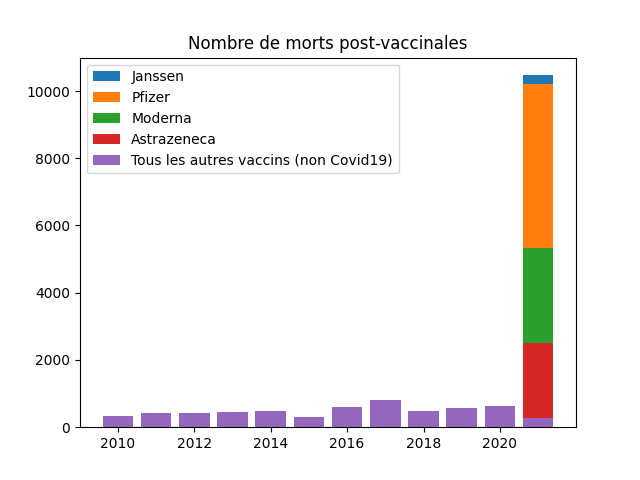
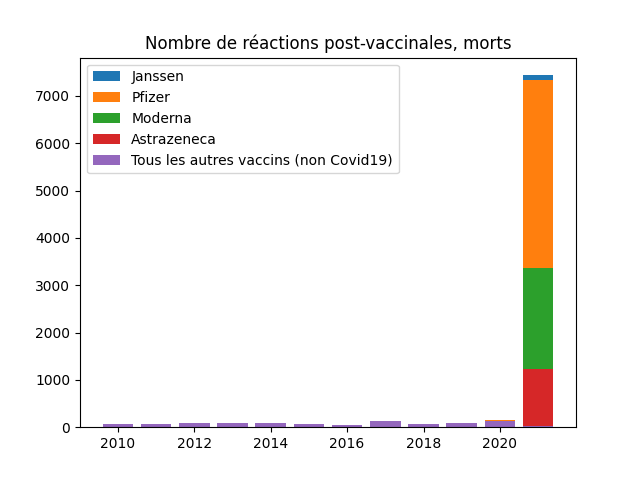
Add 65 ans et plus

diff --git a/run.py b/run.py
@@ -26,8 +26,8 @@ def main():
 
 @main.command("all")
 def cmd_all():
-    download_data()
-    import_data()
+    #download_data()
+    #import_data()
     plot_reactions_by_year_c19()
     plot_reactions_by_year_c19(severe=True)
     plot_reactions_by_year_c19(death=True)
@@ -299,23 +299,25 @@ def db_bulk_insert(conn, table_name, values):
 @main.command("plot_reactions_by_year_c19")
 @click.option("--severe", is_flag=True)
 @click.option("--death", is_flag=True)
-def cmd_plot_reactions_by_year_c19(severe, death):
-    plot_reactions_by_year_c19(severe=severe, death=death)
+@click.option("--aged-65-and-more", is_flag=True)
+def cmd_plot_reactions_by_year_c19(severe, death, aged_65_and_more):
+    plot_reactions_by_year_c19(severe=severe, death=death, aged_65_and_more=aged_65_and_more)
 
-def plot_reactions_by_year_c19(severe=False, death=False):
+def plot_reactions_by_year_c19(severe=False, death=False, aged_65_and_more=False):
     plt.clf()
     title = "Nombre de réactions post-vaccinales"
-    if severe:
-        title = "Nombre de réactions sévères post-vaccinales"
-    if death:
-        title = "Nombre de morts post-vaccinales"
+    if severe: title += ", sévères"
+    if death: title += ", morts"
+    if aged_65_and_more: title += ", 65 ans et +"
     plt.title(title)
     with db_connect() as conn:
         req = 'SELECT subst, year, is_c19_vax, COUNT(*) FROM reports '
-        if severe:
-            req += f' WHERE severe=1'
-        if death:
-            req += f' WHERE death=1'
+        wheres = []
+        if severe: wheres.append('severe=1')
+        if death: wheres.append('death=1')
+        if death: wheres.append('age_group IN ("65-85 Years", "More than 85 Years")')
+        if wheres:
+            req += " WHERE " + " AND ".join(wheres)
         req += ' GROUP BY subst, year, is_c19_vax'
         rows = conn.cursor().execute(req)
         def _get_label(subst, is_c19_vax):
@@ -334,12 +336,11 @@ def plot_reactions_by_year_c19(severe=False, death=False):
         for label in reversed(labels):
             plt.bar(years, [cum_bars[label].get(year,0) for year in years], label=label)
         plt.legend()
-        fname = 'reactions_by_year_c19.png'
-        if severe:
-            fname = 'reactions_by_year_c19_severe.png'
-        if death:
-            fname = 'reactions_by_year_c19_death.png'
-        plt.savefig(os.path.join(HERE, f'results/{fname}'))
+        fname = 'reactions_by_year_c19'
+        if severe: fname += '_severe'
+        if death: fname += '_death'
+        if aged_65_and_more: fname += '_65'
+        plt.savefig(os.path.join(HERE, f'results/{fname}.png'))
 
 
 def _cum_bars(xs, labels, vals):

diff --git a/README.md b/README.md
@@ -12,6 +12,8 @@ On peut observer une amplitude bien plus importante pour les vaccins Covid19, su
 
 ![Morts post-vaccinales](results/reactions_by_year_c19_death.png)
 
+![Morts post-vaccinales, 65 and et plus](results/reactions_by_year_c19_death_65.png)
+
 ## How to use
 
 * Install [Python](https://www.python.org)
